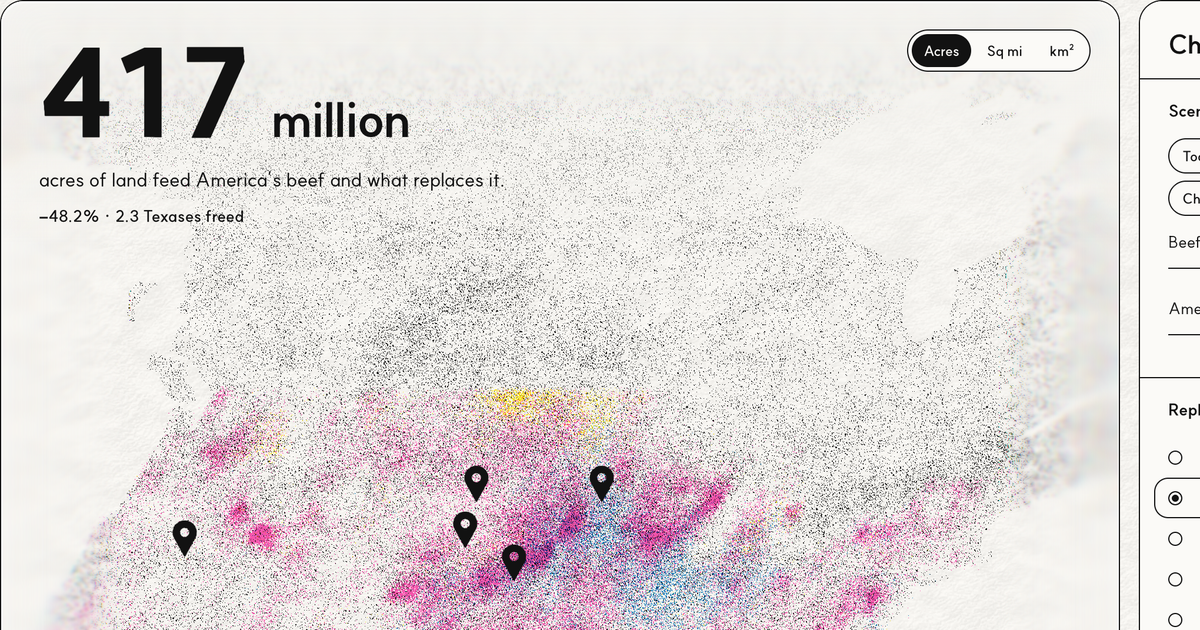
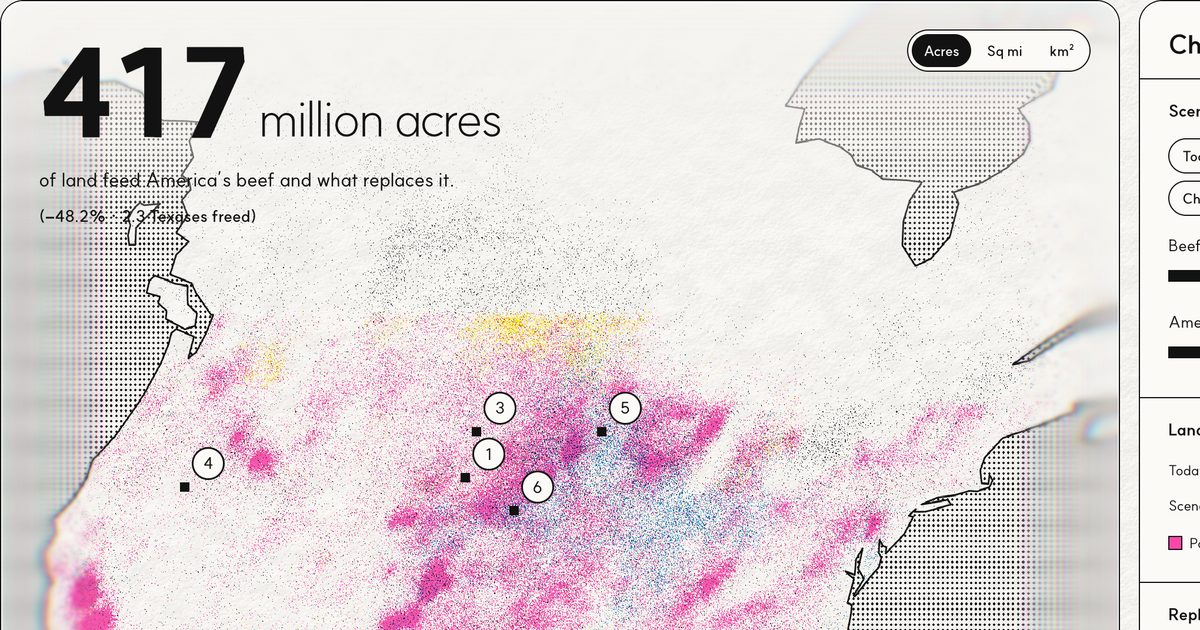
FOOD-55: monotone system after the print references; CMY kept for data only
- Neutral tints are halftone dot screens: sea, slider remainder, nutrient tracks, freed land
- Firm ink outlines on coastlines, bars and legend swatches
- Numbered ring callouts with square anchors replace pins; rings step aside to avoid overlap
- Stacked Today/Scenario land bars in the statistical-plate style
- Heavy figure against hairline units; vertical running title on the rail; source microtext
- Unused Photoshop pin art removed; new cover

diff --git a/food-55/js/app.js b/food-55/js/app.js
@@ -72,7 +72,12 @@
     }
     // land mask at device resolution
     const mc = document.createElement('canvas'); mc.width = DW; mc.height = DH;
-    const mg = mc.getContext('2d'); mg.scale(dpr, dpr); mg.fillStyle = '#000'; mg.beginPath(); d3.geoPath(proj, mg)(land); mg.fill();
+    const mg = mc.getContext('2d'); mg.scale(dpr, dpr);
+    mg.fillStyle = 'rgba(0,0,0,.5)'; mg.beginPath(); d3.geoPath(proj, mg)({type: 'Sphere'}); mg.fill(); // sea
+    mg.globalCompositeOperation = 'copy'; mg.fillStyle = '#000'; mg.beginPath(); d3.geoPath(proj, mg)(land); mg.fill(); // land
+    mg.globalCompositeOperation = 'source-over';
+    // the sea mask must survive the land 'copy' fill: redraw it underneath
+    mg.globalCompositeOperation = 'destination-over'; mg.fillStyle = 'rgba(0,0,0,.5)'; mg.beginPath(); d3.geoPath(proj, mg)({type: 'Sphere'}); mg.fill(); mg.globalCompositeOperation = 'source-over';
     const md = mg.getImageData(0, 0, DW, DH).data, mask = new Uint8Array(DW * DH);
     for (let i = 0; i < mask.length; i++) mask[i] = md[i * 4 + 3];
     // coarse lattice (every S device px): sampled data values
@@ -152,20 +157,28 @@
     g.putImageData(img, 0, 0);
   }
   // Black drum: a light tint for land, deepened by cattle density worldwide.
+  // Black drum. Sea: a regular halftone dot screen, fixed to the paper like a real screen.
+  // Land: paper, grained only where cattle are dense. Then a firm coastline, the way a printed plate outlines its shapes.
   function printBlack() {
-    const {mask, L, DW, DH, S, GW} = P;
+    const {mask, L, DW, DH, S, GW, dpr, proj} = P;
     const c = canvases.black, g = c.getContext('2d'), img = g.createImageData(DW, DH), px = new Uint32Array(img.data.buffer);
-    const [r, gg, b] = INK.black;
+    const [r, gg, b] = INK.black, ink = (255 << 24) | (b << 16) | (gg << 8) | r;
+    const pitch = Math.round(4 * dpr), rad2 = (.92 * dpr) ** 2;
     for (let y = 0; y < DH; y++) {
-      const row = ((y + 29) & 511) << 9, iy = Math.floor(y / S);
+      const row = ((y + 29) & 511) << 9, iy = Math.floor(y / S), fy = (y % pitch) - pitch / 2 + .5;
       for (let x = 0; x < DW; x++) {
         const m = mask[y * DW + x]; if (!m) continue;
+        if (m < 200) { const fx = (x % pitch) - pitch / 2 + .5; if (fx * fx + fy * fy <= rad2) px[y * DW + x] = ink; continue; }
         const cat = L.cattle[iy * GW + Math.floor(x / S)];
-        const v = (.06 + Math.min(.12, Math.sqrt(cat) * .022)) * m / 255;
-        if (v * 255 > screen[row + ((x + 401) & 511)]) px[y * DW + x] = (238 << 24) | (b << 16) | (gg << 8) | r;
+        const v = Math.min(.1, Math.sqrt(cat) * .014);
+        if (v * 255 > screen[row + ((x + 401) & 511)]) px[y * DW + x] = (230 << 24) | (b << 16) | (gg << 8) | r;
       }
     }
     g.putImageData(img, 0, 0);
+    g.save(); g.scale(dpr, dpr); g.strokeStyle = '#121212'; g.lineJoin = 'round';
+    g.lineWidth = 1.4; g.beginPath(); d3.geoPath(proj, g)(land); g.stroke();
+    if (view === 'world' && zoomK === 1) { g.lineWidth = 1; g.beginPath(); d3.geoPath(proj, g)({type: 'Sphere'}); g.stroke(); }
+    g.restore();
   }
   let pending = 0;
   function printData() {
@@ -183,10 +196,10 @@
 
   /* ---------- pins ---------- */
   const pinsEl = $('#pins'), factoid = $('#factoid');
-  const pinArt = await new Promise(res => { const i = new Image(); i.onload = () => res(true); i.onerror = () => res(false); i.src = 'assets/print/pin.png'; });
   const pinEls = pins.map((p, i) => {
     const b = document.createElement('button');
-    b.type = 'button'; b.className = 'pin' + (pinArt ? '' : ' no-art'); b.setAttribute('aria-label', p.title + ', ' + p.place); b.setAttribute('aria-expanded', 'false');
+    b.type = 'button'; b.className = 'pin'; b.setAttribute('aria-label', p.title + ', ' + p.place); b.setAttribute('aria-expanded', 'false');
+    b.innerHTML = '<i class="sq"></i><b></b>';
     b.addEventListener('mouseenter', () => openPin(i)); b.addEventListener('focus', () => openPin(i));
     b.addEventListener('click', () => openPin(i, true));
     pinsEl.appendChild(b); return b;
@@ -195,7 +208,7 @@
   function openPin(i, stick) {
     const p = pins[i], el = pinEls[i];
     pinEls.forEach((e, j) => e.setAttribute('aria-expanded', String(j === i)));
-    factoid.innerHTML = `<span class="place">${p.place}</span><h3>${p.title}</h3><p>${p.text}</p><a href="${p.source_url}" target="_blank" rel="noopener">${p.source_label} ↗</a>`;
+    factoid.innerHTML = `<span class="place"><b>${el.dataset.n || ''}</b>${p.place}</span><h3>${p.title}</h3><p>${p.text}</p><a href="${p.source_url}" target="_blank" rel="noopener">${p.source_label} ↗</a>`;
     factoid.hidden = false;
     const x = parseFloat(el.style.left), y = parseFloat(el.style.top), fw = factoid.offsetWidth, fh = factoid.offsetHeight;
     factoid.style.left = Math.max(12, Math.min(P.cw - fw - 12, x + 22)) + 'px';
@@ -207,11 +220,18 @@
   factoid.addEventListener('mouseleave', e => { if (!sticky && !(e.relatedTarget && e.relatedTarget.classList.contains('pin'))) closePin(); });
   stage.addEventListener('click', e => { if (!e.target.closest('.pin,.factoid')) closePin(); });
   document.addEventListener('keydown', e => { if (e.key === 'Escape') closePin(); });
+  // Rings sit up-right of their square; if one would overlap a ring already placed, it tries the other corners.
+  const RING = [[20, -20], [-20, -20], [20, 20], [-20, 20]];
   function placePins() {
+    let n = 0; const rings = [];
     pins.forEach((p, i) => {
       const xy = P.proj([p.lon, p.lat]), el = pinEls[i];
       const inside = (p.views || ['world', 'us']).includes(view) && xy && xy[0] > 8 && xy[0] < P.cw - 8 && xy[1] > 48 && xy[1] < P.ch - 70;
       el.hidden = !inside; if (!inside) return;
+      el.dataset.n = ++n; el.querySelector('b').textContent = n;
+      const ring = RING.find(([dx, dy]) => rings.every(([x, y]) => Math.hypot(xy[0] + dx - x, xy[1] + dy - y) > 32)) || RING[0];
+      rings.push([xy[0] + ring[0], xy[1] + ring[1]]);
+      el.style.setProperty('--rx', ring[0] + 'px'); el.style.setProperty('--ry', ring[1] + 'px');
       el.style.left = xy[0] + 'px'; el.style.top = xy[1] + 'px';
     });
     closePin();
@@ -275,8 +295,16 @@
     const d = r.dri, b = r.beef, p = r.plate;
     const rows = [['Vitamin B12', b.b12 / d.b12, p.b12 / d.b12], ['Zinc', b.zinc / d.zinc, p.zinc / d.zinc], ['Iron', b.iron / d.iron, p.iron / d.iron],
       ['Copper', b.copper / d.copper, p.copper / d.copper], ['Selenium', b.selenium / d.selenium, p.selenium / d.selenium], ['Protein', b.protein / d.protein, p.protein / d.protein]];
-    const x = v => Math.min(100, v / 1.5 * 100);
-    $('#micro').innerHTML = rows.map(([l, bv, sv]) => `<div class="dumb"><span>${l}</span><span class="track"><b class="bar" style="left:${Math.min(x(bv), x(sv))}%;width:${Math.abs(x(bv) - x(sv))}%"></b><i class="dot pink" style="left:${x(bv)}%"></i><i class="dot blue" style="left:${x(sv)}%"></i></span><em>${num(sv * 100)}%</em></div>`).join('');
+    const w = v => Math.min(100, v * 100), over = v => v > 1 ? ' over' : '';
+    $('#micro').innerHTML = rows.map(([l, bv, sv]) => `<div class="nb"><span>${l}</span><span class="tracks"><span class="tk beef${over(bv)}"><b style="width:${w(bv)}%"></b></span><span class="tk swap${over(sv)}"><b style="width:${w(sv)}%"></b></span></span><em>${num(sv * 100)}%</em></div>`).join('');
+  }
+
+
+  function stack(r) {
+    const pct = v => Math.max(0, v / r.base * 100).toFixed(2) + '%';
+    const bar = segs => `<span class="stack-bar">${segs.filter(([, v]) => v / r.base > .0005).map(([cls, v]) => `<i class="${cls}" style="flex-basis:${pct(v)}"></i>`).join('')}</span>`;
+    $('#stack').innerHTML = `<div class="stack-row"><span>Today</span>${bar([['pink', r.base * inputs.baseline.pastureShare], ['blue', r.base * (1 - inputs.baseline.pastureShare)]])}</div>`
+      + `<div class="stack-row"><span>Scenario</span>${bar([['pink', r.pasture], ['blue', r.feed], ['yellow', r.replacement], ['freed', Math.max(0, r.freed)]])}</div>`;
   }
 
   /* ---------- the meal sheet ---------- */
@@ -288,7 +316,7 @@
     $('#meal-bars').innerHTML = rows.map(([l, s, bv, sv, t, f]) => { const mx = Math.max(bv, sv, t) * 1.06 || 1, w = v => v / mx * 100;
       return `<div class="row${t && sv < t ? ' short' : ''}"><span class="lbl">${l}${s ? `<small>${s}</small>` : ''}</span><span class="tr"><b class="b beef" style="width:${w(bv)}%"></b><b class="b swap" style="width:${w(sv)}%"></b>${t ? `<i class="t" style="left:${w(t)}%"></i>` : ''}</span><span class="v"><span>${f(bv)}</span><br><span>${f(sv)}</span></span></div>`; }).join('');
     const eaa = ['leucine', 'isoleucine', 'valine', 'lysine', 'methionine', 'phenylalanine', 'threonine', 'tryptophan', 'histidine'];
-    $('#eaa').innerHTML = eaa.map(k => { const v = p[k] / b[k] * 100; return `<div class="col${v < 100 ? ' short' : ''}"><em>${num(v)}%</em><div class="bar" style="height:${Math.min(v, 200) / 2 * .62}%"></div><span>${k}</span></div>`; }).join('');
+    $('#eaa').innerHTML = eaa.map(k => { const v = p[k] / b[k] * 100; return `<div class="col${v < 100 ? ' short' : ''}"><em>${num(v)}%</em><div class="frame"><i class="beefline" style="bottom:50%"></i><div class="bar" style="height:${Math.min(v, 200) / 2}%"></div></div><span>${k}</span></div>`; }).join('');
     const low = eaa.map(k => [k, p[k] / b[k]]).sort((x, y) => x[1] - y[1])[0];
     $('#eaa-note').textContent = `The scarcest is ${low[0]}, at ${num(low[1] * 100)}% of the beef. Muscle is built only as far as the scarcest essential amino acid allows. Hatched bars fall short of the beef.`;
   }
@@ -309,10 +337,11 @@
     state = M.sanitize(state); result = M.calculate(state, inputs, foods); sync();
     const r = result;
     setFigure(M.convert(r.total, state.unit));
-    $('#unit-word').textContent = {acres: 'acres', mi2: 'square miles', km2: 'square kilometres'}[state.unit];
+    $('#unit-word').textContent = {acres: 'acres', mi2: 'sq mi', km2: 'km²'}[state.unit];
     $('#total-cap').textContent = r.shift === 0 ? `of land feed America’s beef each year.` : `of land feed America’s beef and what replaces it.`;
     $('#delta').textContent = r.shift === 0 ? '' : `${r.changePercent > 0 ? '+' : '−'}${num(Math.abs(r.changePercent), 1)}% · ${num(r.freed / inputs.compare.km2, 1)} Texases freed`;
-    drawLeu(r); dumbbells(r); mealSheet(r); printData();
+    drawLeu(r); dumbbells(r); mealSheet(r); stack(r); printData();
+    for (const id of ['reduction', 'coverage']) $('#' + id).style.setProperty('--p', state[id] + '%');
     $('#status').textContent = '';
     if (write) history.replaceState(null, '', location.pathname + '?' + M.toQuery(state) + (view === 'us' ? '&view=us' : '') + location.hash);
   }

diff --git a/food-55/css/site.css b/food-55/css/site.css
@@ -8,6 +8,7 @@
   --pink:#ff48b0;--blue:#0078bf;--yellow:#ffe800;--black:#121212;
   --font:SUIT,'Helvetica Neue',Arial,sans-serif;
   /* type scale: ratio 1.2 at 360px wide, 1.25 at 1440px */
+  --s-2:.65625rem;                               /* 10.5 microtext */
   --s-1:clamp(.75rem,.73rem + .09vw,.8125rem);   /* 12–13 labels, captions */
   --s0:clamp(.875rem,.86rem + .07vw,.9375rem);   /* 14–15 interface */
   --s1:clamp(1rem,.97rem + .18vw,1.125rem);      /* 16–18 reading */
@@ -17,7 +18,11 @@
   --lh-tight:1.04;--lh-head:1.15;--lh-body:1.5;
   --tr-display:-.045em;--tr-head:-.02em;--tr-label:.01em;
   --w-body:420;--w-label:620;--w-head:740;--w-display:840;
-  --line:1px solid var(--ink);
+  --line:1px solid var(--ink);--line-2:1.5px solid var(--ink);
+  /* halftone screens: the neutral 'tints' of the system — regular dots, never grey */
+  --dots:radial-gradient(circle,var(--ink) 0 .9px,transparent 1.2px) 0 0/4px 4px;
+  --dots-fine:radial-gradient(circle,var(--ink) 0 .6px,transparent .95px) 0 0/3px 3px;
+  --dots-open:radial-gradient(circle,var(--ink) 0 .7px,transparent 1px) 0 0/5px 5px;
   --r-card:20px;--r-pill:40px;--r-item:28px;--r-sm:12px;
   --gap:16px;--rail:64px;--panel:360px;
   --sp-1:4px;--sp-2:8px;--sp-3:12px;--sp-4:16px;--sp-5:24px;--sp-6:32px;--sp-7:48px;--sp-8:72px;
@@ -204,6 +209,62 @@ figcaption{font-size:var(--s0);font-weight:var(--w-label);border-bottom:var(--li
 .src li span{font-size:var(--s-1);text-align:right}
 .made{margin-top:var(--sp-7);font-size:var(--s-1);max-width:80ch}
 
+
+/* ---------- reference pass: dot screens, outlines, callouts, weight contrast ---------- */
+.thin{font-weight:200;letter-spacing:-.03em;font-size:.42em}
+#mag,.thin #unit-word{font-size:1em;font-weight:200}
+.delta::before{content:'('}.delta::after{content:')'}
+.rail{position:relative}
+.rail-title{margin-top:auto;writing-mode:vertical-rl;transform:rotate(180deg);font-size:var(--s-1);font-weight:var(--w-label);letter-spacing:.06em;text-transform:uppercase;white-space:nowrap;padding:var(--sp-3) 0}
+.sw{width:12px;height:12px;display:inline-block;border:var(--line);flex:none;mix-blend-mode:multiply}
+.sw.pink{background:var(--pink)}.sw.blue{background:var(--blue)}.sw.yellow{background:var(--yellow)}
+.sw.dots{background:var(--card);background:var(--dots),var(--card)}
+.sw.grain{background:var(--dots-fine),var(--card)}
+.key{border-radius:var(--r-card)}
+/* numbered callouts: a solid square on the place, a numbered ring beside it */
+.pin{width:auto;height:auto;margin:0;background:none!important;display:block}
+.pin .sq{position:absolute;left:-4px;top:-4px;width:8px;height:8px;background:var(--ink)}
+.pin b{position:absolute;left:calc(var(--rx,20px) - 14px);top:calc(var(--ry,-20px) - 14px);width:28px;height:28px;border:var(--line-2);border-radius:50%;background:var(--card);display:grid;place-items:center;font-size:var(--s0);font-weight:500;line-height:1}
+.pin:hover b,.pin[aria-expanded=true] b{background:var(--ink);color:var(--card)}
+.pin:hover .sq,.pin[aria-expanded=true] .sq{background:var(--pink)}
+.factoid .place b{display:inline-grid;place-items:center;width:20px;height:20px;border:var(--line);border-radius:50%;margin-right:6px;font-weight:500}
+/* sliders: solid ink for the value, dot screen for what's left */
+input[type=range]{height:28px;--p:0%}
+input[type=range]::-webkit-slider-runnable-track{height:10px;background:linear-gradient(var(--ink),var(--ink)) 0 0/var(--p) 100% no-repeat,var(--dots),var(--card)}
+input[type=range]::-moz-range-track{height:10px;background:var(--dots),var(--card)}
+input[type=range]::-moz-range-progress{height:10px;background:var(--ink)}
+input[type=range]::-webkit-slider-thumb{width:6px;height:22px;margin-top:-6px;border-radius:0;background:var(--ink);border:0;box-shadow:0 0 0 2px var(--card)}
+input[type=range]::-moz-range-thumb{width:6px;height:22px;border-radius:0;background:var(--ink);border:0;box-shadow:0 0 0 2px var(--card)}
+.slider output{font-weight:300;font-size:var(--s1)}
+/* stacked land bars, after the statistical plate */
+.stack{display:grid;gap:var(--sp-2)}
+.stack-row{display:grid;grid-template-columns:62px 1fr;align-items:center;gap:var(--sp-2);font-size:var(--s-1)}
+.stack-bar{display:flex;height:22px;border:var(--line-2)}
+.stack-bar i{height:100%;mix-blend-mode:multiply;transition:flex-basis .3s}
+.stack-bar i+i{border-left:var(--line)}
+.stack-bar i[style*="flex-basis: 0%"]{border:0}
+.stack-bar .pink{background:var(--pink)}.stack-bar .blue{background:var(--blue)}.stack-bar .yellow{background:var(--yellow)}.stack-bar .freed{background:var(--dots),var(--card)}
+.stack-key{list-style:none;display:flex;flex-wrap:wrap;gap:var(--sp-1) var(--sp-3);font-size:var(--s-1)}
+.stack-key li{display:flex;align-items:center;gap:6px}
+/* nutrient bars: value in ink colour over a dot-screened track to 100% of the day */
+.nb{display:grid;grid-template-columns:76px 1fr 38px;align-items:center;gap:var(--sp-2);font-size:var(--s-1);padding:3px 0}
+.nb .tracks{display:grid;gap:2px}
+.nb .tk{position:relative;height:7px;background:var(--dots-open),var(--card)}
+.nb .tk b{position:absolute;left:0;top:0;bottom:0;mix-blend-mode:multiply}
+.nb .tk.beef b{background:var(--pink)}.nb .tk.swap b{background:var(--blue)}
+.nb .tk.over::after{content:'';position:absolute;right:-5px;top:0;bottom:0;width:3px;background:var(--ink)}
+.nb em{font-style:normal;text-align:right;font-weight:300;font-size:var(--s0)}
+.legend-line .dot{border-radius:0;border:var(--line)}
+/* sheet charts */
+.bars .tr{background:var(--dots-open),var(--card);border:var(--line)}
+.bars .b{height:50%}
+.eaa .col .frame{position:relative;width:70%;flex:1;border:var(--line-2);background:var(--dots-open),var(--card);display:flex;align-items:flex-end}
+.eaa .col .frame .bar{width:100%;border-top:var(--line)}
+.eaa .col .frame .beefline{position:absolute;left:-4px;right:-4px;border-top:2px solid var(--pink)}
+.eaa .short .bar{background:var(--blue)}
+.micro{grid-column:1/-1;font-size:var(--s-2);line-height:1.35;margin-top:var(--sp-2);text-align:justify;hyphens:auto}
+figcaption{text-transform:uppercase;letter-spacing:.04em;font-size:var(--s-1)}
+
 /* ---------- responsive: recompose around the map ---------- */
 @media (max-width:1180px){:root{--panel:320px}.steps{grid-template-columns:1fr 1fr}}
 @media (max-width:900px){
@@ -220,7 +281,8 @@ figcaption{font-size:var(--s0);font-weight:var(--w-label);border-bottom:var(--li
   .zoom{right:12px;bottom:12px}
   .units{top:12px;right:12px}
   .readout{top:56px}
-  .pin{width:22px;height:29px;margin:-29px 0 0 -11px}
+  .pin b{width:24px;height:24px;left:calc(var(--rx,20px) - 12px);top:calc(var(--ry,-20px) - 12px);font-size:var(--s-1)}
+  .rail-title{display:none}
 }
 @media (max-width:520px){.factoid{left:12px!important;right:12px;width:auto}.bars .row{grid-template-columns:90px 1fr 70px}}
 @media (prefers-reduced-motion:reduce){html{scroll-behavior:auto}*{transition:none!important}}

diff --git a/food-55/index.html b/food-55/index.html
@@ -27,6 +27,7 @@
     <a class="rail-btn" href="#meal"><svg viewBox="0 0 24 24" aria-hidden="true"><circle cx="12" cy="13" r="7"/><circle cx="12" cy="13" r="3.5"/><path d="M3 4v6M5 4v6M3 10h2M4 10v10M20 4c-2 1-2 6 0 7v9"/></svg><span>The meal</span></a>
     <a class="rail-btn" href="#method"><svg viewBox="0 0 24 24" aria-hidden="true"><path d="M5 4h14v16H5z"/><path d="M8 8h8M8 12h8M8 16h5"/></svg><span>Method</span></a>
     <a class="rail-btn" href="#sources"><svg viewBox="0 0 24 24" aria-hidden="true"><path d="M10 14l10-10M13 4h7v7"/><path d="M18 14v6H4V6h6"/></svg><span>Sources</span></a>
+    <p class="rail-title" aria-hidden="true">The Land on Our Plates — FOOD–55 — US beef, 2025</p>
   </nav>
 
   <main class="stage" id="map" aria-label="Map of land used for US beef">
@@ -66,17 +67,17 @@
     </svg>
     <header class="readout">
       <h1 class="sr-only">The Land on Our Plates</h1>
-      <p class="figure"><span id="total">805</span> <span id="mag">million</span></p>
-      <p class="figure-cap"><span id="unit-word">acres</span> <span id="total-cap">of land feed America’s beef each year.</span></p>
+      <p class="figure"><span id="total">805</span><span class="thin"> <span id="mag">million</span> <span id="unit-word">acres</span></span></p>
+      <p class="figure-cap"><span id="total-cap">of land feed America’s beef each year.</span></p>
       <p id="delta" class="delta"></p>
     </header>
     <div class="units" role="group" aria-label="Units"><button type="button" data-unit="acres" aria-pressed="true">Acres</button><button type="button" data-unit="mi2" aria-pressed="false">Sq mi</button><button type="button" data-unit="km2" aria-pressed="false">km²</button></div>
     <div class="key">
       <ul aria-label="Map key">
-        <li><i class="ink pink"></i>Beef pasture</li>
-        <li><i class="ink blue"></i>Beef feed crops</li>
-        <li><i class="ink yellow"></i>Replacement crops</li>
-        <li><i class="ink black"></i>Cattle worldwide</li>
+        <li><i class="sw pink"></i>Beef pasture</li>
+        <li><i class="sw blue"></i>Beef feed crops</li>
+        <li><i class="sw yellow"></i>Replacement crops</li>
+        <li><i class="sw grain"></i>Cattle worldwide</li>
       </ul>
       <button type="button" class="info" popovertarget="pop-map" aria-label="How to read the map">i</button>
     </div>
@@ -101,6 +102,12 @@
       </div>
       <div class="slider"><label for="reduction">Beef cut</label><output id="reduction-out" for="reduction">0%</output><input id="reduction" type="range" min="0" max="100" value="0"></div>
       <div class="slider"><label for="coverage">Americans taking part</label><output id="coverage-out" for="coverage">100%</output><input id="coverage" type="range" min="0" max="100" value="100"></div>
+    </section>
+
+    <section class="group">
+      <div class="group-head"><h3>Land</h3><button type="button" class="info" popovertarget="pop-land" aria-label="About the land bars">i</button></div>
+      <div class="stack" id="stack"></div>
+      <ul class="stack-key"><li><i class="sw pink"></i>Pasture</li><li><i class="sw blue"></i>Feed</li><li><i class="sw yellow"></i>Replacement</li><li><i class="sw dots"></i>Freed</li></ul>
     </section>
 
     <section class="group">
@@ -129,7 +136,8 @@
       <p class="legend-line"><i class="dot pink"></i>Beef <i class="dot blue"></i>Swap</p>
     </section>
 
-    <footer class="actions"><button type="button" id="share">Copy link</button><button type="button" id="export">Export data</button><p class="status" id="status" role="status"></p></footer>
+    <footer class="actions"><button type="button" id="share">Copy link</button><button type="button" id="export">Export data</button><p class="status" id="status" role="status"></p>
+      <p class="micro">Land: Eshel et al. 2014, PNAS 111:11996; Poore &amp; Nemecek 2018, Science 360:987. Nutrients: USDA FoodData Central, SR Legacy, cooked. Daily needs: NIH Office of Dietary Supplements. Places: FAO Gridded Livestock of the World 2010; IFPRI MapSPAM 2010; Natural Earth. Pins: USDA NASS and ERS, BLM, NRCS, NPS, MapBiomas. Printed live in four riso drums on a Photoshop paper scan. FOOD–55, ECON 238, University of Rochester, Felix Brener.</p></footer>
   </aside>
 </div>
 
@@ -185,6 +193,7 @@
 </section>
 
 <div popover id="pop-map" class="pop"><h4>Reading the map</h4><p>Each colour is one riso ink. In every half-degree patch, ink covers the same share of the ground that the use takes. Pasture is placed by where cattle are (FAO, 2010), feed by maize fields, and replacement crops by soy, pulse or feed-grain fields (MapSPAM, 2010).</p><p>Black is a light tint for land, darker where cattle are dense worldwide. It shows head counts, not land.</p><p>Drag to move. Use + and − to zoom. Pins open notes on places that matter for US beef.</p></div>
+<div popover id="pop-land" class="pop"><h4>Land</h4><p>Both bars are scaled to today’s 805 million acres. Today’s bar is all beef: pasture and feed crops (Eshel et al. 2014). The scenario bar shows the beef land left, the cropland for the replacement plates, and, as a dot screen, the land no longer needed.</p></div>
 <div popover id="pop-scenario" class="pop"><h4>Scenarios</h4><p><b>Beef cut</b> is how much of their beef people stop eating. <b>Americans taking part</b> is how many do it. Their product is the shift: half the beef for everyone equals all of it for half the people.</p><p>Meatless Monday cuts one day in seven, or 14%. The two muscle presets replace all beef and size plates to hit the leucine target.</p></div>
 <div popover id="pop-foods" class="pop"><h4>Replacement foods</h4><p>Leucine per 100 g, cooked (USDA FoodData Central). Land per 100 g of protein (Poore &amp; Nemecek 2018, global means): beef 164 m², chicken 7, eggs 6, pulses 7, tofu 2.</p><p>Mixed plates split the beef serving equally among their foods.</p></div>
 <div popover id="pop-plate" class="pop"><h4>Plate size</h4><p><b>By appetite:</b> people eat the same 113 g they ate as beef. Studies find people eat a steady weight of food, not steady calories (Bell, Rolls et al. 1998).</p><p><b>For muscle:</b> each food is portioned to reach the leucine target, the amount that switches on muscle protein synthesis.</p><p><b>Mix:</b> drag the dot along the line to set the share of people who plan for muscle.</p></div>

diff --git a/food-55/docs/ASSETS.md b/food-55/docs/ASSETS.md
@@ -5,7 +5,7 @@
 - **Print assets** (`assets/print/`), all made in Adobe Photoshop 2026 and exported with Photoshop:
   - **`riso-screen.png`**, the riso master: a 512² seamless stochastic threshold map. It combines fine grain, slight clumping, a paper-tooth displace and drift, and is equalized to a uniform histogram.
   - **`paper.webp` and `paper-tooth.png`**, seamless uncoated stock. The source is the ambientCG Paper001 scan (CC0).
-  - **`pin.png` and `pin-active-key.png`**, ink-bled map pins in #121212, and in Fluorescent Pink over a misregistered key line.
+  - Map pins were replaced by typographic numbered callouts in the reference pass (below).
 - **How the riso print works.** Each data layer is a drum: Fluorescent Pink #FF48B0, Blue #0078BF, Yellow #FFE800 and Black. Coverage is screened at device resolution against the master, and each drum reads it at its own offset. The drums overprint in Multiply over the paper, each nudged a fraction of a pixel off register.
   - **Why Multiply.** Riso ink is translucent, so stacked inks filter light: transmittances multiply (Beer–Lambert). Overlaps darken and gaps show paper. Darken, Linear Burn and Screen don't model overlapping translucent inks.
 - **Map data.** Natural Earth coastlines (world-atlas, ISC), FAO GLW3 cattle 2010 and IFPRI MapSPAM 2010 physical area. D3 and topojson-client are ISC-licensed.
@@ -13,3 +13,10 @@
   - **Aberration.** Red, green and blue are displaced at 64 / 54 / 44 px scale, so the aberration grows with the bevel. The per-channel approach follows rdev/liquid-glass-react (MIT).
   - **Blur.** A three-step blur ladder (σ 1.4 / 3.6 / 8) is masked to deeper bands toward the rim.
   - **Fallback.** Chromium and Firefox get the full filter. WebKit gets a CSS backdrop-blur frame without aberration.
+- **Reference pass.** The site stays monochrome; pink, blue and yellow appear only as data ink. Neutral tints are regular halftone dot screens, never greys:
+  - the sea, the remainder in sliders and nutrient bars, and the freed land in the stacked bar
+  - after an OPEN CALL festival poster and a set of halftone percentage bars
+  - shapes take firm ink outlines (coastlines, bars, swatches)
+  - places are numbered callouts with square anchors, and the figure sets a heavy number against hairline units, after Hvnter.net's PEOPLE VOL1
+  - the land bars stack to 100% with outlined segments and a boxed legend, after a French statistical plate (Paris population, 1801–1962)
+  - microtext carries the real sources
